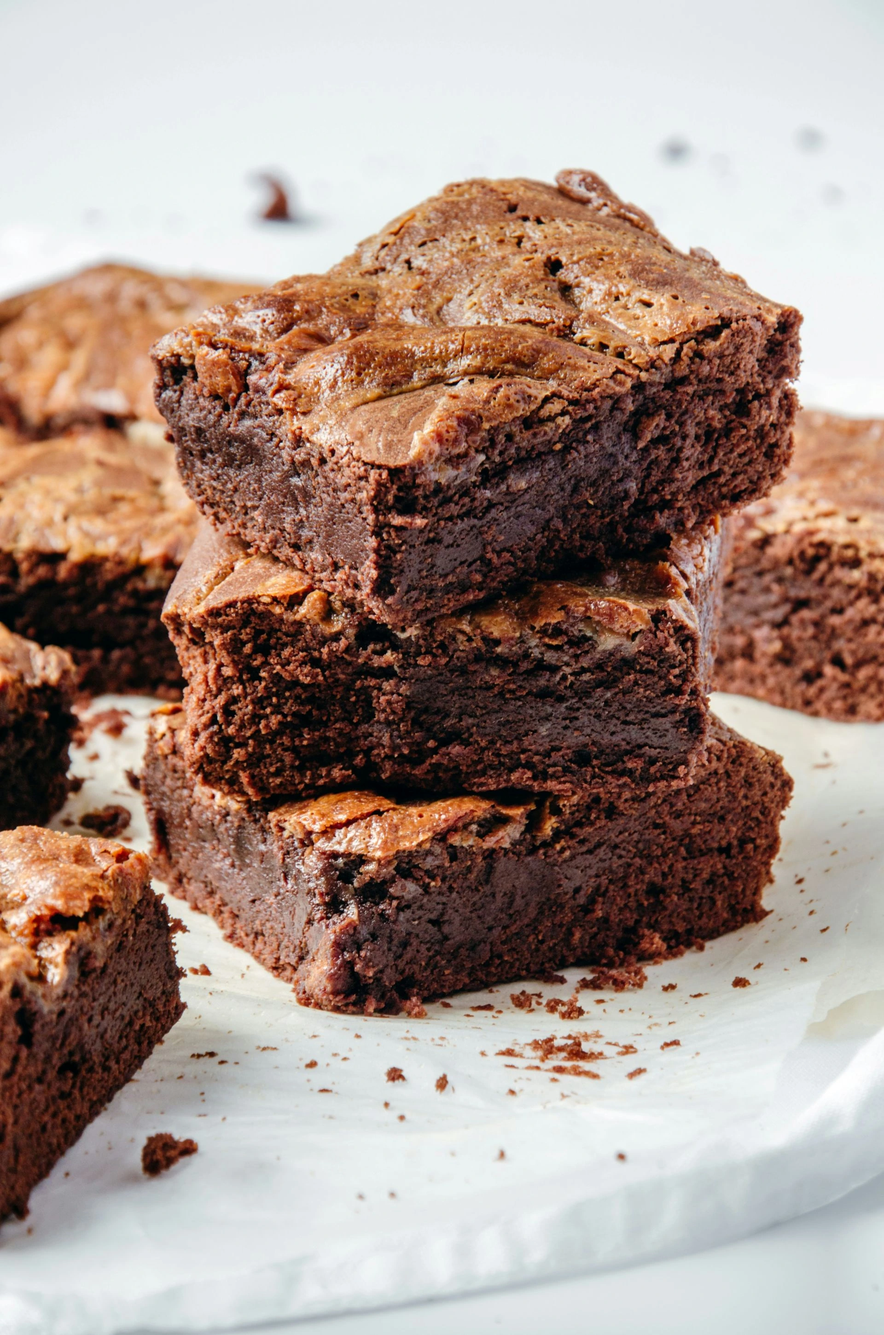
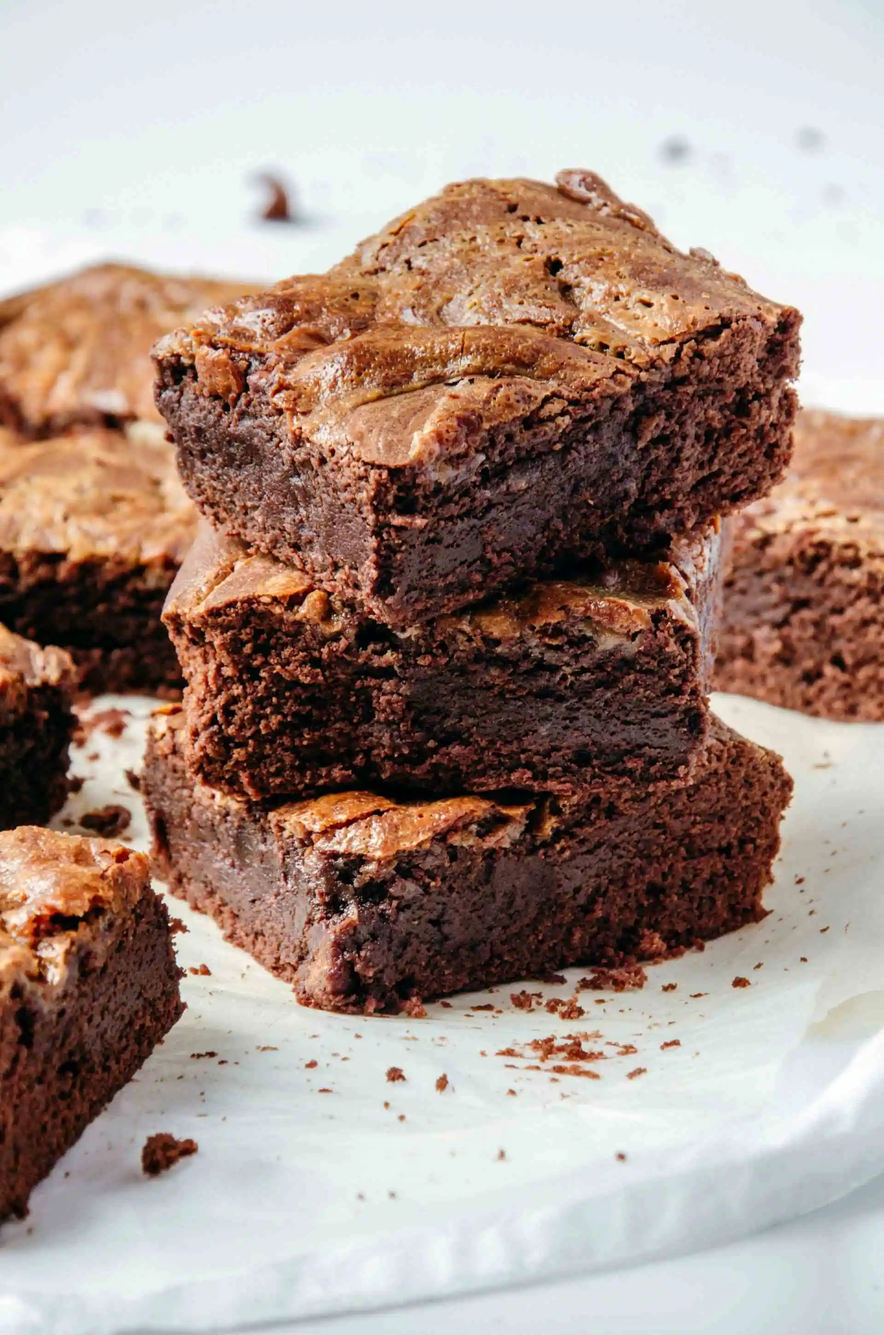
grosse correction au niveau de l'affichage des images et de leurs tailles

diff --git a/public/css/style.css b/public/css/style.css
@@ -712,6 +712,8 @@ main:has(.histoire) + .site-footer {
   img{
     object-fit: cover;
     border-radius: 15px;
+    width: 100px;
+    height: 100px;
   }
 }
 
@@ -1362,3 +1364,18 @@ main:has(.histoire) + .site-footer {
 .recette-photo-step {
   flex-wrap: wrap;
 }
+
+
+
+
+
+
+
+
+
+
+
+
+
+
+
